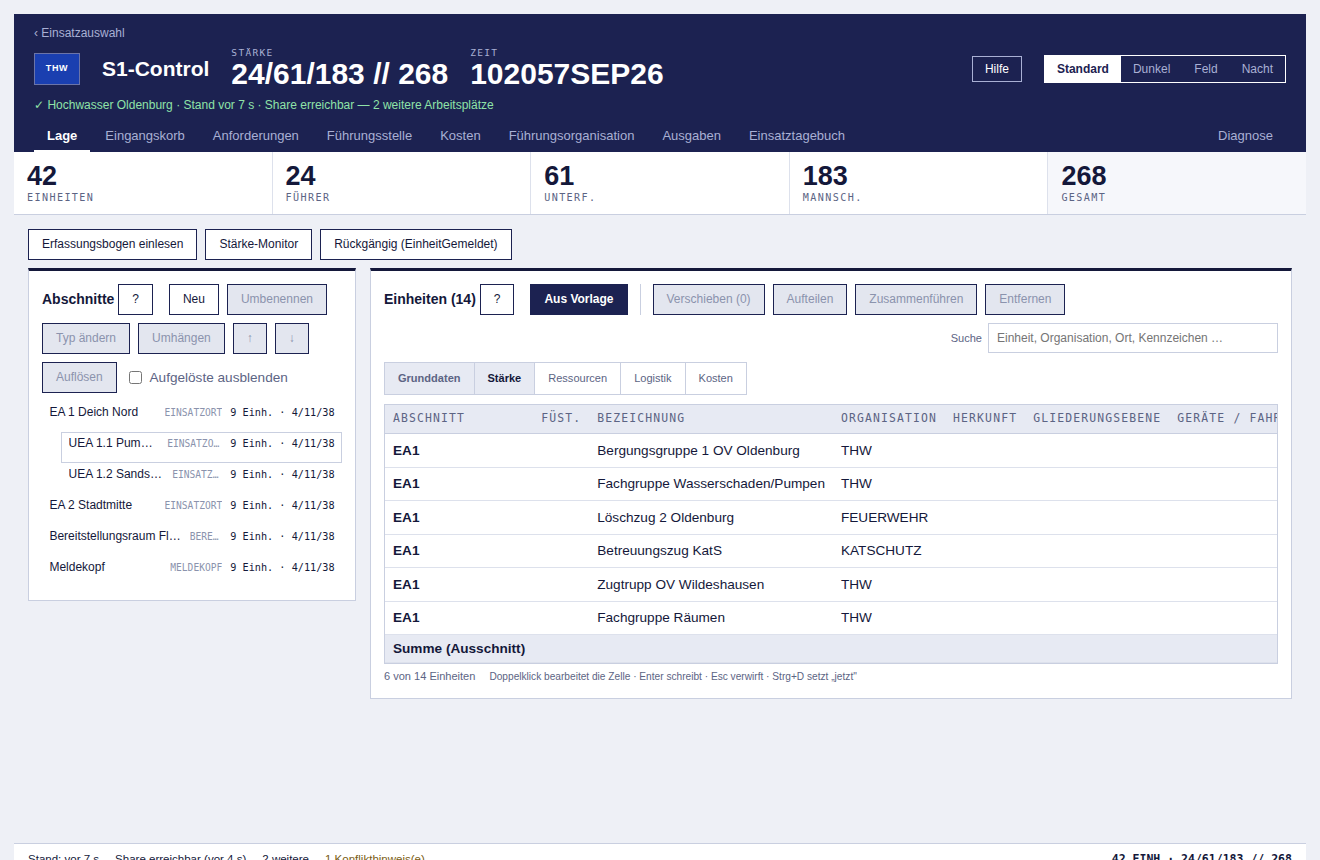
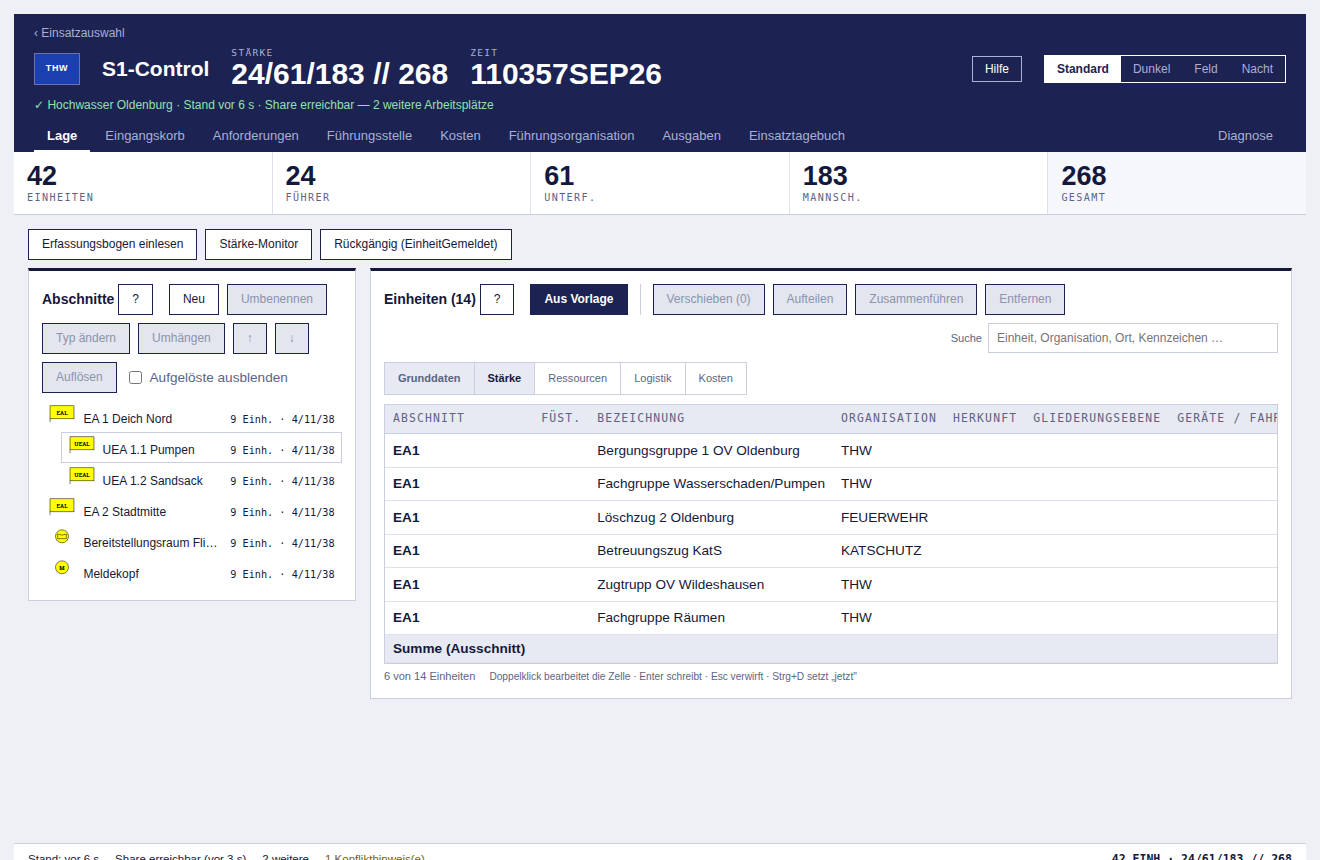
docs(entwurf): Zugang zum Zeichensatz im Stand nachgezogen
Claude-Session: https://claude.ai/code/session_01ApCu8BkD42ycPFdkLp88CE

diff --git a/docs/v2/entwurf/oberflaeche/README.md b/docs/v2/entwurf/oberflaeche/README.md
@@ -88,10 +88,25 @@ Pull Request; zusammengeführt wird von Hand, denn ein Zeichen, das sich still
 Die Oberfläche setzt die Zeichen **inline** (`zeichensatz.ts`, `zeichen.tsx`):
 In einem `<img>` wäre das SVG ein eigenes Dokument ohne Zugriff auf die
 Schriften der Seite, und die Beschriftung fiele auf eine Systemschrift zurück.
-Gebündelt wird nur, was gebraucht wird — heute Führungsstellen und
-Einrichtungen. Die Schrift bindet der `<style>`-Block per `@font-face` ein; die
-Anwendung lädt nichts aus dem Netz. Damit ist auch die offene Frage der
-Offline-Schrift erledigt.
+Die Schrift bindet der `<style>`-Block per `@font-face` ein; die Anwendung lädt
+nichts aus dem Netz. Damit ist auch die offene Frage der Offline-Schrift
+erledigt.
+
+Der Zugang gilt für den **ganzen** Satz und für jede Ansicht, nicht nur für die
+Harke. Geladen wird je Zeichen und einmal: `import.meta.glob` ohne `eager`
+schneidet die knapp tausend Dateien auseinander, `ladeZeichen` holt eine davon,
+`useZeichen` zeigt sie, und was einmal da war, bleibt im Speicher — in einer
+Tabelle mit vierzig Zeilen wird dasselbe Zeichen einmal geholt und vierzigmal
+gezeigt. Ganz vorliegen muss nur das Verzeichnis (`index.json`, Kennung und
+Titel, rund hundert Kilobyte): Ohne es gäbe es keine Suche über den Satz, und
+eine Zeichenwahl, die erst tausend Dateien lädt, um ihre Namen zu kennen, ist
+keine. `sucheZeichen`, `kategorien` und `titelVon` stehen dafür bereit.
+
+Genutzt wird das heute an drei Stellen: in der Führungsharke, im
+Abschnittsbaum (jede Zeile trägt das Zeichen ihres Typs; das Typwort daneben
+entfällt dann, denn es sagt dasselbe zweimal) und in der Diagnose, die Stand
+und Herkunft des Satzes nennt — im Zweifel („bei mir sieht das Zeichen anders
+aus") ist das die erste Frage.
 
 Die fünf offenen Entscheidungen am Ende des Handoffs (Zahl der Themes,
 Modulleiste links, Erfassen im Meldekopf-Modus, Schriftfamilien, gemeinsames
